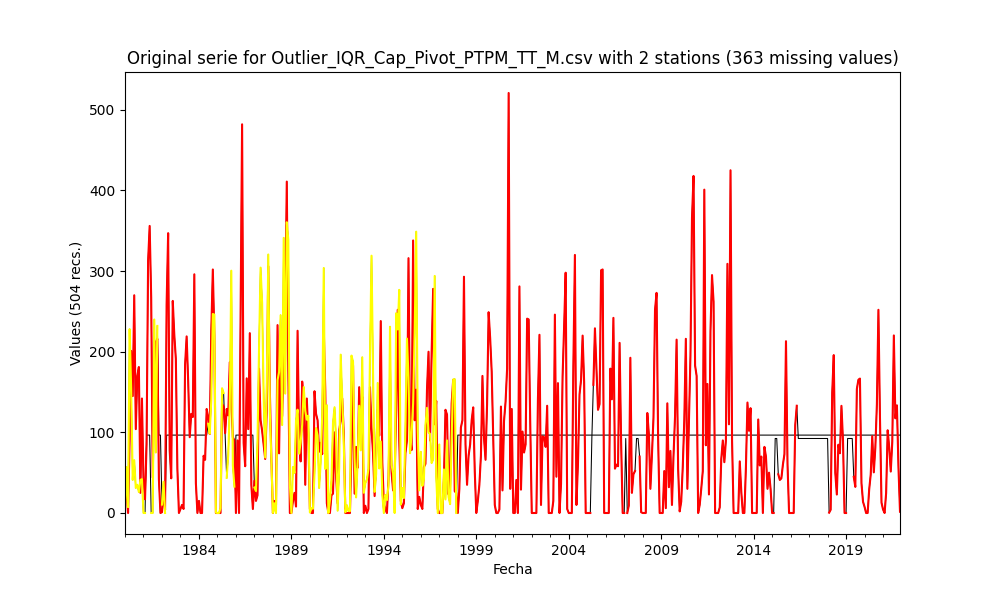
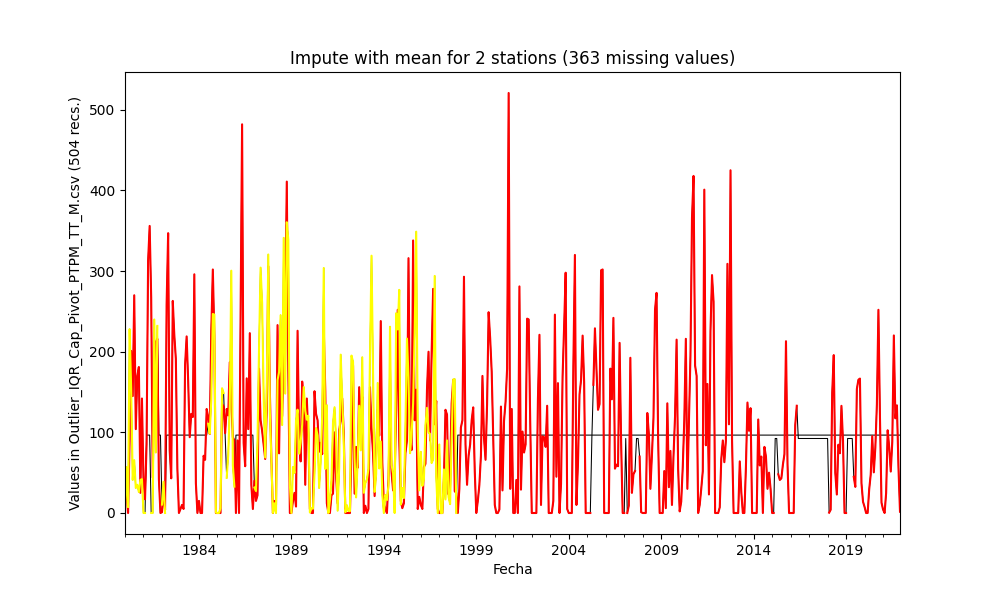
General update.

Changed region(s): [[0.124, 0.06, 0.899, 0.12], [0.062, 0.39, 0.093, 0.84], [0.062, 0.18, 0.093, 0.36]]

diff --git a/.src/Impute.py b/.src/Impute.py
@@ -25,6 +25,17 @@ def print_log(txt_print, on_screen=True, center_div=False):
     if center_div:
         file_log.write('\n</div>\n' + '\n')
 
+# Function for plot original and imputed series
+def plot_impute(df_org, df_impute, method, file_name):
+    ax = df_impute.plot(color='black', legend=False, alpha=1, figsize=(fig_size*2, fig_size+1), linewidth=0.75)
+    df_org.plot(ax=ax, colormap=plot_colormap, alpha=1, legend=False, figsize=(fig_size*2, fig_size+1))
+    plt.title('Impute with %s for %d stations (%d missing values)' % (method, df.shape[1], total_nuls))
+    ax.set_ylabel('Values in %s (%d recs.)' % (pivot_table_name, ideam_regs))
+    plt.savefig(path + file_name + '.png')
+    print_log('\n![R.LTWB](%s)' % (file_name + '.png'), center_div=False)
+    if show_plot: plt.show()
+    plt.close('all')
+
 
 # General variables
 pivot_table_name = 'Outlier_IQR_Cap_Pivot_PTPM_TT_M.csv'  # <<<<< Pivot table name to process
@@ -82,8 +93,8 @@ total_nuls = df_concat.T['Nulls'].sum()
 #nul_data = pd.DataFrame(df.isnull())
 #print_log(nul_data.to_markdown())
 ax = df.plot(colormap=plot_colormap, legend=False, alpha=fig_alpha, figsize=(fig_size*2, fig_size+1))  # colormap can be replaced by color='lightblue'
-plt.title('Original serie for %s with %d stations (%d missing values)' % (pivot_table_name, df.shape[1], total_nuls))
-ax.set_ylabel('Values (%d recs.)' % ideam_regs)
+plt.title('Original serie with %d stations (%d missing values)' % (df.shape[1], total_nuls))
+ax.set_ylabel('Values in %s (%d recs.)' % (pivot_table_name, ideam_regs))
 plt.savefig(path + pivot_table_name + '.png')
 print_log('\n![R.LTWB](%s)' % (pivot_table_name + '.png'), center_div=False)
 if show_plot: plt.show()
@@ -91,21 +102,15 @@ plt.close('all')
 print_log('General statistics table - Initial file', center_div=True)
 print_log(df.describe().T.to_markdown(), center_div=True) # .T for transpose
 
+# Impute missing values with mean values
+print_log('\n### Method 1 - Imputing with mean values for %d stations (%d missing values)' % (df.shape[1], total_nuls))
+df_impute = df.fillna(df.mean())
+impute_file = 'Impute_Mean_' + pivot_table_name
+plot_impute(df, df_impute, 'mean', impute_file)
 
-# Impute missing values
-print_log('\n### Method 1 - Imputing with mean for %d stations (%d missing values)' % (df.shape[1], total_nuls))
-#print(df[['15015020', '15060050']])
-#df_impute_mean = df.assign(FillMean=df['15015020'].fillna(df['15015020'].mean()))
-df_impute_mean = df.fillna(df.mean())
-print(df_impute_mean)
-impute_mean_file = 'Impute_Mean_' + pivot_table_name
-#ax = df.plot(colormap=plot_colormap, legend=False, alpha=fig_alpha, figsize=(fig_size*2, fig_size+1))  # colormap can be replaced by color='lightblue'
-#df_impute_mean.plot(ax=ax, color='black', alpha=fig_alpha, legend=False, figsize=(fig_size*2, fig_size+1))
-ax = df_impute_mean.plot(color='black', legend=False, alpha=1, figsize=(fig_size*2, fig_size+1), linewidth=0.75)  # colormap can be replaced by color='lightblue'
-df.plot(ax=ax, colormap=plot_colormap, alpha=1, legend=False, figsize=(fig_size*2, fig_size+1))
-plt.title('Original serie for %s with %d stations (%d missing values)' % (pivot_table_name, df.shape[1], total_nuls))
-ax.set_ylabel('Values (%d recs.)' % ideam_regs)
-plt.savefig(path + impute_mean_file + '.png')
-print_log('\n![R.LTWB](%s)' % (impute_mean_file + '.png'), center_div=False)
-if show_plot: plt.show()
-plt.close('all')
+# Impute missing values with median values
+print_log('\n### Method 2 - Imputing with median values for %d stations (%d missing values)' % (df.shape[1], total_nuls))
+df_impute = df.fillna(df.median())
+impute_file = 'Impute_Median_' + pivot_table_name
+plot_impute(df, df_impute, 'median', impute_file)
+

diff --git a/.datasets/IDEAM_Impute/Impute_Outlier_IQR_Cap_Pivot_PTPM_TT_M.csv.md b/.datasets/IDEAM_Impute/Impute_Outlier_IQR_Cap_Pivot_PTPM_TT_M.csv.md
@@ -1,7 +1,7 @@
 ## Impute missing values in time series through statistical methods
 
 * Processed file: [D:/R.LTWB/.datasets/IDEAM_Outlier/Outlier_IQR_Cap_Pivot_PTPM_TT_M.csv](../IDEAM_EDA/Outlier_IQR_Cap_Pivot_PTPM_TT_M.csv)
-* Execution date: 2022-11-10 10:22:09.037573
+* Execution date: 2022-11-10 10:50:36.508542
 * Python version: 3.10.5 (tags/v3.10.5:f377153, Jun  6 2022, 16:14:13) [MSC v.1929 64 bit (AMD64)]
 * Python path: ['D:\\R.LTWB\\.src', 'D:\\R.LTWB', 'D:\\R.GISPython.wiki', 'D:\\R.HydroTools', 'D:\\R.HydroTools.wiki']
 * matplotlib version: 3.6.0
@@ -63,6 +63,10 @@ General statistics table - Initial file
 </div>
 
 
-### Method 1 - Imputing with mean for 2 stations (363 missing values)
+### Method 1 - Imputing with mean values for 2 stations (363 missing values)
 
 ![R.LTWB](Impute_Mean_Outlier_IQR_Cap_Pivot_PTPM_TT_M.csv.png)
+
+### Method 2 - Imputing with median values for 2 stations (363 missing values)
+
+![R.LTWB](Impute_Median_Outlier_IQR_Cap_Pivot_PTPM_TT_M.csv.png)
